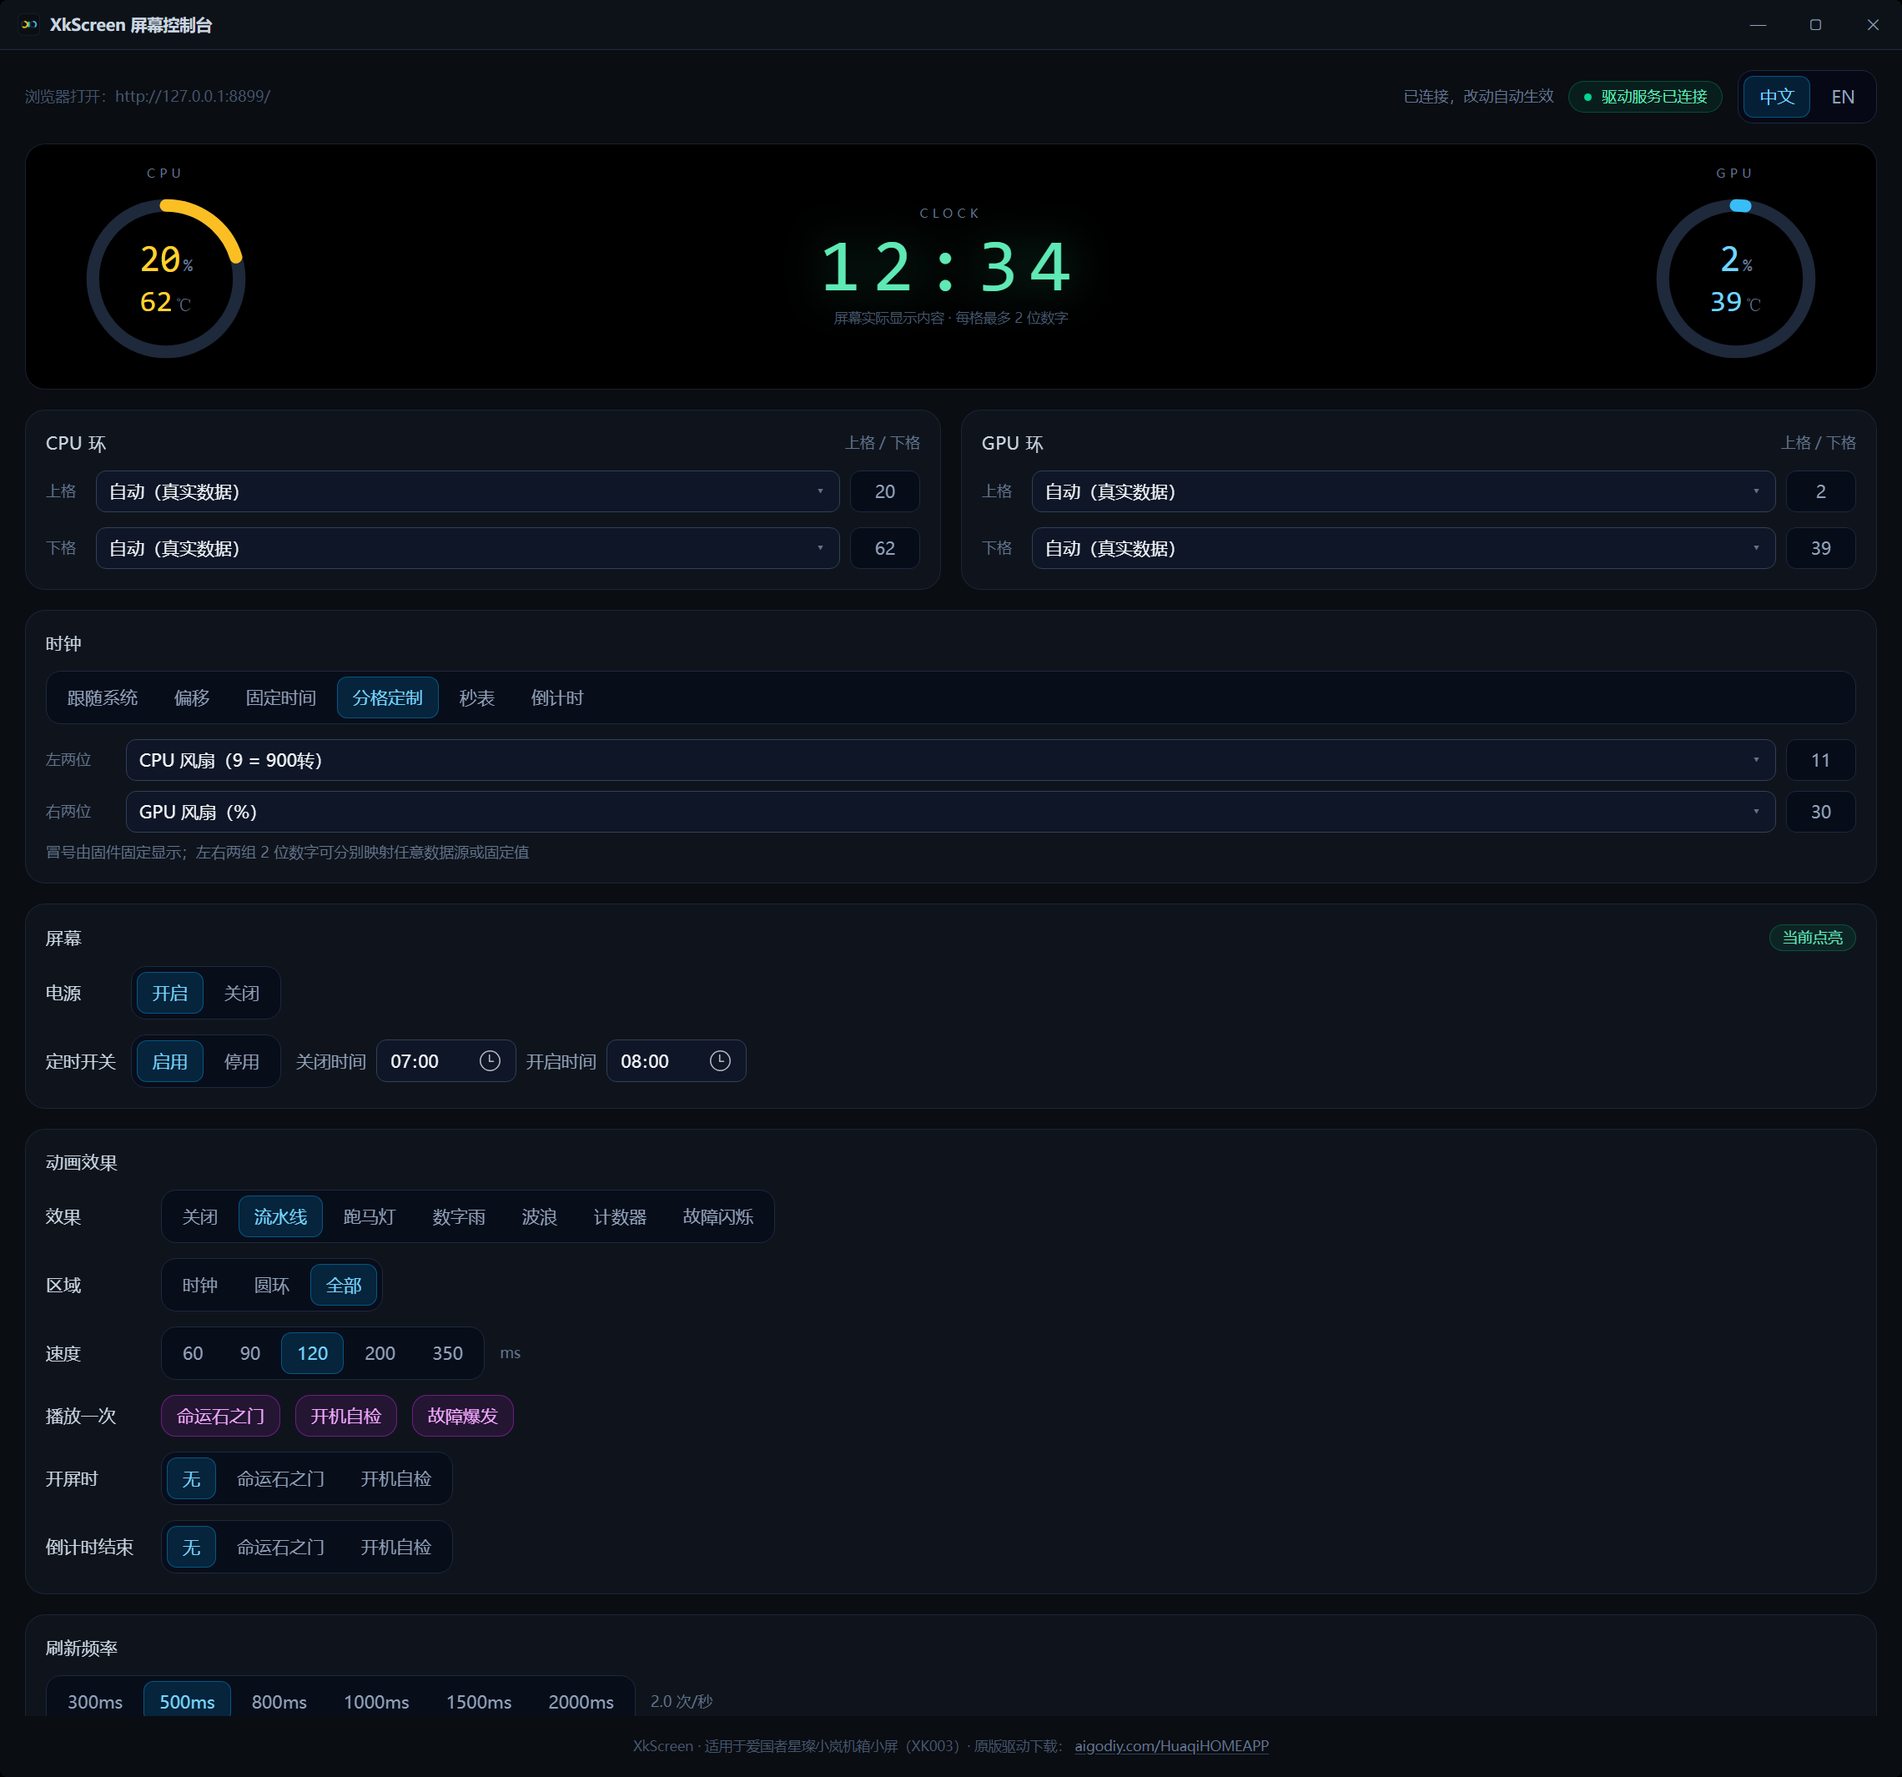
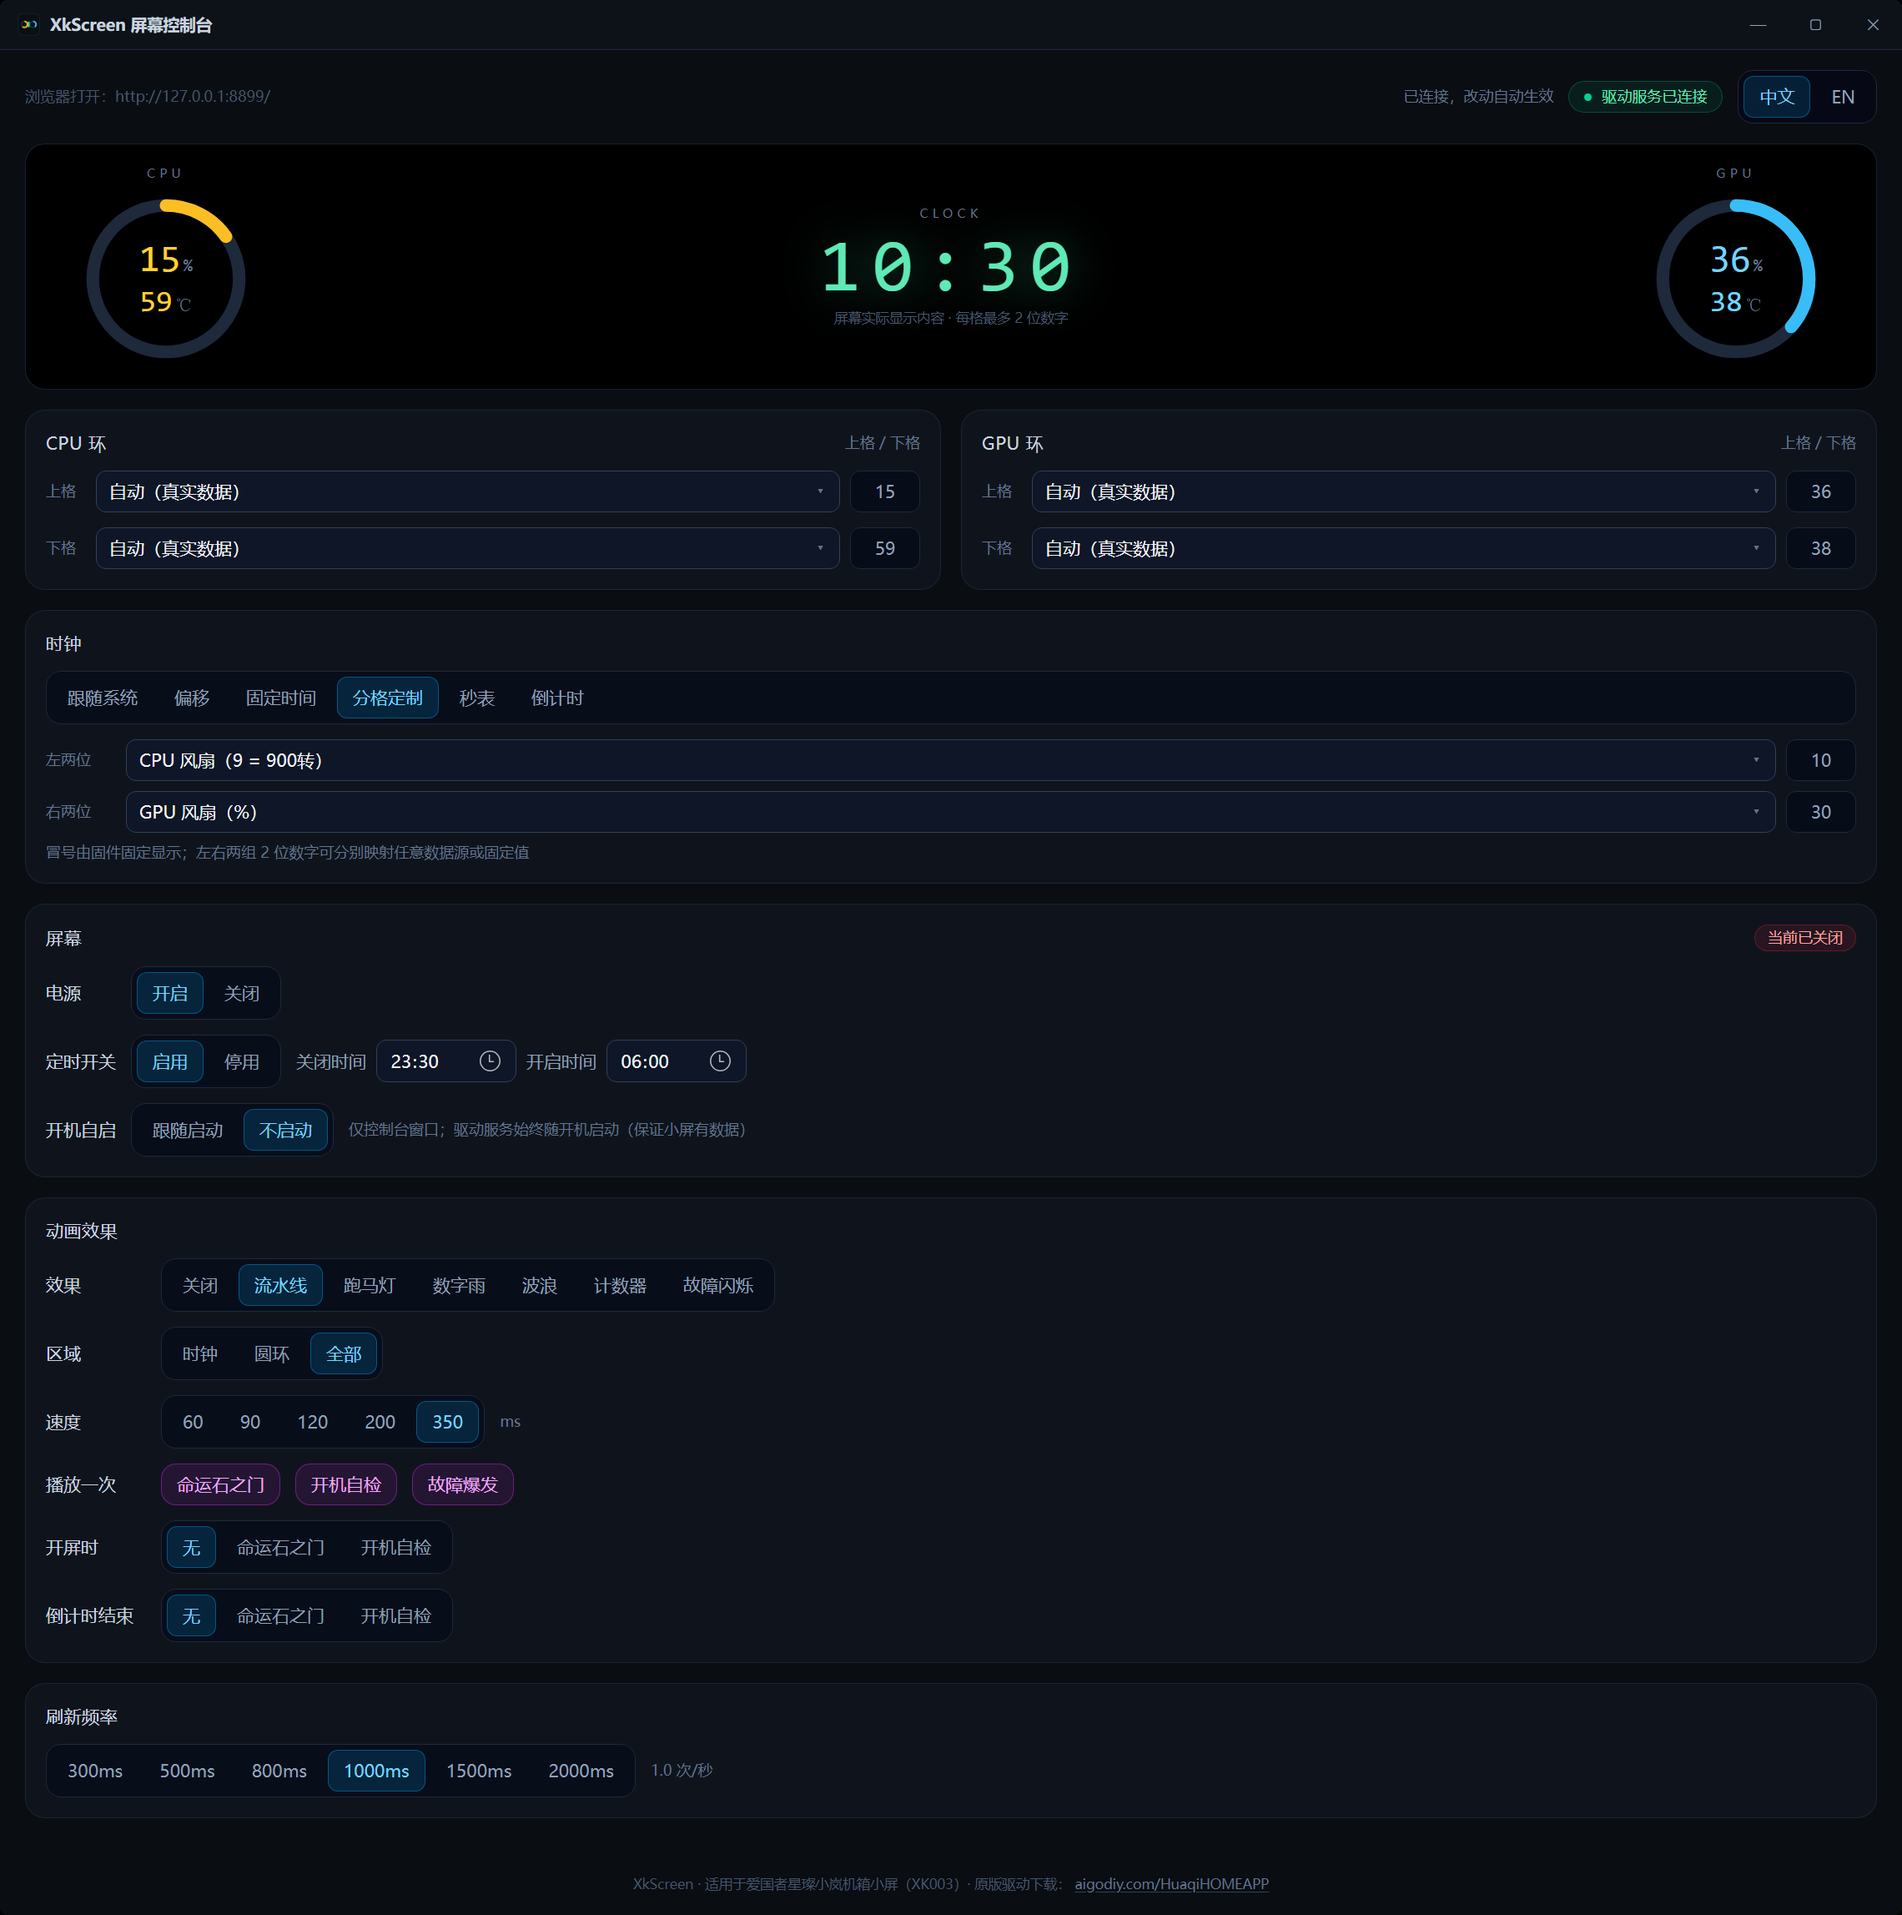
Add a console autostart switch and fix the installer's tasks page
The console gets a "开机自启" switch in the screen card. It writes the
per-user HKCU Run value over the WebView2 message bridge (a plain browser has
no bridge, so the row is read-only there with a hint). The installer writes the
same value, so the two can never disagree, and re-installing keeps whatever the
switch last set.

The installer's "选择附加任务" page lost the left edge of its check boxes: Inno
6.7 draws the standard tasks page ~2 DIP too far left, which at 150% scaling
clips the left border away completely. The two choices now live on a custom
page with real check box controls - verified by pixel-measuring the rendered
page from a non-elevated probe build (complete 22x20 boxes, both borders).
The autostart option also moved from a Startup-folder shortcut to the same
HKCU Run value, and both options mirror the previous state on re-install.

Screenshots refreshed for the new row.

diff --git a/product/frontend/src/app/page.tsx b/product/frontend/src/app/page.tsx
@@ -6,6 +6,21 @@ import { createPortal } from "react-dom";
 
 const API = "http://127.0.0.1:8899";
 
+// The desktop console injects this WebView2 bridge; a plain browser does not
+// have it, and the "start with Windows" switch is then read-only there.
+type WebViewBridge = {
+  postMessage: (msg: unknown) => void;
+  addEventListener: (type: "message", cb: (ev: MessageEvent) => void) => void;
+  removeEventListener: (type: "message", cb: (ev: MessageEvent) => void) => void;
+};
+
+function webviewBridge(): WebViewBridge | null {
+  if (typeof window === "undefined") return null;
+  const wv = (window as unknown as { chrome?: { webview?: WebViewBridge } }).chrome
+    ?.webview;
+  return wv && typeof wv.postMessage === "function" ? wv : null;
+}
+
 type Lang = "zh" | "en";
 
 type Config = {
@@ -160,6 +175,11 @@ const UI = {
     schedDisable: "停用",
     schedOffLabel: "关闭时间",
     schedOnLabel: "开启时间",
+    autostartLabel: "开机自启",
+    autostartOn: "跟随启动",
+    autostartOff: "不启动",
+    autostartHint: "仅控制台窗口；驱动服务始终随开机启动（保证小屏有数据）",
+    autostartHintWeb: "此开关只能在桌面控制台窗口中修改",
     modeSplit: "分格定制",
     splitLeft: "左两位",
     splitRight: "右两位",
@@ -242,6 +262,11 @@ const UI = {
     schedDisable: "Disable",
     schedOffLabel: "Off at",
     schedOnLabel: "On at",
+    autostartLabel: "Start with Windows",
+    autostartOn: "Launch",
+    autostartOff: "Don't launch",
+    autostartHint: "Console window only — the driver always starts at boot so the panel keeps its data.",
+    autostartHintWeb: "Change this in the desktop console window.",
     modeSplit: "Custom split",
     splitLeft: "Left 2 digits",
     splitRight: "Right 2 digits",
@@ -712,6 +737,8 @@ export default function Home() {
   const [connected, setConnected] = useState(false);
   const [sensorsActive, setSensorsActive] = useState(true);
   const [fxPlaying, setFxPlaying] = useState<string | null>(null);
+  // null = unknown / not available (browser without the WebView2 bridge)
+  const [autostart, setAutostart] = useState<boolean | null>(null);
   const [msg, setMsg] = useState<{ k: MsgKey; d?: string }>({ k: "connecting" });
 
   // clock input fields (kept locally, applied on change)
@@ -840,6 +867,28 @@ export default function Home() {
     const tmr = setInterval(poll, 500);
     return () => clearInterval(tmr);
   }, [poll]);
+
+  // "Start with Windows" is a per-user registry setting, so only the desktop
+  // console (which runs as the user) can read and change it — over its WebView2
+  // bridge. In a plain browser the switch is shown read-only.
+  useEffect(() => {
+    const wv = webviewBridge();
+    if (!wv) return;
+    const onMsg = (ev: MessageEvent) => {
+      const d = ev.data as { type?: string; value?: boolean } | null;
+      if (d && d.type === "autostart") setAutostart(!!d.value);
+    };
+    wv.addEventListener("message", onMsg);
+    wv.postMessage({ cmd: "autostart.get" });
+    return () => wv.removeEventListener("message", onMsg);
+  }, []);
+
+  const changeAutostart = useCallback((on: boolean) => {
+    const wv = webviewBridge();
+    if (!wv) return;
+    setAutostart(on); // optimistic; the console answers with what it stored
+    wv.postMessage({ cmd: "autostart.set", value: on });
+  }, []);
 
   const applyConfig = useCallback(async (cfg: Config) => {
     try {
@@ -1295,6 +1344,24 @@ export default function Home() {
                       onChange={(e) => setConfig((c) => ({ ...c, schOn: e.target.value || "07:00" }))}
                     />
                   </label>
+                )}
+              </div>
+              <div className="flex flex-wrap items-center gap-3">
+                <span className="w-14 text-sm text-slate-300">{t("autostartLabel")}</span>
+                {autostart === null ? (
+                  <span className="text-xs text-slate-500">{t("autostartHintWeb")}</span>
+                ) : (
+                  <>
+                    <Segmented<"on" | "off">
+                      value={autostart ? "on" : "off"}
+                      options={[
+                        { v: "on", label: t("autostartOn") },
+                        { v: "off", label: t("autostartOff") },
+                      ]}
+                      onChange={(v) => changeAutostart(v === "on")}
+                    />
+                    <span className="text-xs text-slate-500">{t("autostartHint")}</span>
+                  </>
                 )}
               </div>
             </div>

diff --git a/product/XkScreen.Gui/MainWindow.xaml.cs b/product/XkScreen.Gui/MainWindow.xaml.cs
@@ -373,6 +373,81 @@ namespace XkScreen.Gui
             await EnsureWebAsync();
         }
 
+        // ---- console autostart (HKCU Run value, the same one the installer writes) ----
+
+        private const string RunKeyPath = @"Software\Microsoft\Windows\CurrentVersion\Run";
+        private const string RunValueName = "XkScreen";
+
+        private static bool GetAutostart()
+        {
+            try
+            {
+                using (Microsoft.Win32.RegistryKey k =
+                    Microsoft.Win32.Registry.CurrentUser.OpenSubKey(RunKeyPath))
+                    return k != null && k.GetValue(RunValueName) != null;
+            }
+            catch { return false; }
+        }
+
+        private static bool SetAutostart(bool on)
+        {
+            try
+            {
+                using (Microsoft.Win32.RegistryKey k =
+                    Microsoft.Win32.Registry.CurrentUser.OpenSubKey(RunKeyPath, true))
+                {
+                    if (k == null) return GetAutostart();
+                    if (on)
+                    {
+                        string exe = Environment.ProcessPath;
+                        if (string.IsNullOrEmpty(exe)) return GetAutostart();
+                        k.SetValue(RunValueName, "\"" + exe + "\"");
+                    }
+                    else
+                    {
+                        k.DeleteValue(RunValueName, false);
+                    }
+                }
+            }
+            catch { }
+            return GetAutostart();
+        }
+
+        private void SendAutostart()
+        {
+            try
+            {
+                Web.CoreWebView2.PostWebMessageAsJson(
+                    "{\"type\":\"autostart\",\"value\":"
+                    + (GetAutostart() ? "true" : "false") + "}");
+            }
+            catch { }
+        }
+
+        private void OnWebMessageReceived(object sender, CoreWebView2WebMessageReceivedEventArgs e)
+        {
+            try
+            {
+                using (JsonDocument doc = JsonDocument.Parse(e.WebMessageAsJson))
+                {
+                    JsonElement root = doc.RootElement;
+                    string cmd = root.TryGetProperty("cmd", out JsonElement c) ? c.GetString() : null;
+                    if (cmd == "autostart.get")
+                    {
+                        SendAutostart();
+                    }
+                    else if (cmd == "autostart.set")
+                    {
+                        bool on = root.TryGetProperty("value", out JsonElement v)
+                                  && v.ValueKind == JsonValueKind.True;
+                        SetAutostart(on);
+                        SendAutostart();
+                    }
+                }
+            }
+            catch { }
+        }
+
         /// <summary>Create the WebView2 and navigate to the console. Called on
         /// startup and again whenever the window is shown after a tray hide.</summary>
         private async Task EnsureWebAsync()
@@ -393,6 +468,11 @@ namespace XkScreen.Gui
                 CoreWebView2Environment env = await CoreWebView2Environment.CreateAsync(
                     null, null, new CoreWebView2EnvironmentOptions(flags));
                 await Web.EnsureCoreWebView2Async(env);
+
+                // The page cannot touch the registry itself, so the console's
+                // "start with Windows" switch is served over the WebView2 message
+                // bridge (only present in the desktop console, not in a browser).
+                Web.CoreWebView2.WebMessageReceived += OnWebMessageReceived;
 
                 // Primary source: the copy hosted by the driver service (same one any
                 // browser sees at http://127.0.0.1:8899/). Fall back to the embedded

diff --git a/README.md b/README.md
@@ -75,7 +75,7 @@ Point XkScreen at the installed vendor folder with `--official-dir <path>`, the 
 7. **Animations**: pick a persistent effect (pipeline / marquee / digital rain / wave / counter / glitch) with target and speed; one-shots include the **Steins;Gate divergence-meter scramble**, boot scan and glitch burst — plus auto-triggers on screen-on or when a countdown hits 00:00.
 8. **Refresh rate** (the card at the very bottom): 300 ms – 2000 ms; slower is lighter (the whole driver idles at ~0.03 % CPU, so you normally never touch it).
 9. **Tray**: closing the window tucks it into the tray — hover for live CPU/GPU/RAM, right-click for screen on/off, open-in-browser, close-to-tray vs exit. Tray-resident it costs only a few MB.
-10. **Autostart & self-healing**: registered at install time (SYSTEM scheduled task); if the service ever dies, the hourly watchdog brings it back.
+10. **Autostart & self-healing**: the driver service starts at boot from the SYSTEM scheduled task the installer registers (so the panel always has data, nothing to launch by hand); whether the **console window** follows you at logon is a switch in the screen card (“Start with Windows”). If the service ever dies, the hourly watchdog brings it back.
 11. **Automation** (optional): the driver exposes a local JSON API — `GET /status`, `POST /config`, `POST /effect`, `GET /perf` (see “Local API” below).
 12. **Troubleshooting**: screen dark/stuck → the driver is not running (run `C:\XkScreen\service_host.cmd` as administrator); console says “sensors inactive” → it was started without administrator rights (restart it the same way); to go back to the original software, uninstall XkScreen — the uninstaller restores the original service to auto-start.
 

diff --git a/docs/RELEASE-NOTES.md b/docs/RELEASE-NOTES.md
@@ -1,5 +1,16 @@
 # Release Notes
 
+## XkScreen v0.4.0 — Console autostart switch & installer page fix
+
+### Added
+
+- **"开机自启" switch in the console** (screen card): lets the console window start with Windows. It writes the per-user `HKCU\...\Run` value that the installer also manages, so installer and switch can never disagree, and re-installing keeps whatever the switch last set. In a browser (no WebView2 bridge) the row is shown read-only with a hint to use the desktop console. The driver service is unaffected — it always starts at boot from its SYSTEM scheduled task, so the panel keeps its data.
+
+### Fixed
+
+- **Installer "选择附加任务" page: the check boxes lost their left edge.** Inno 6.7 draws the standard tasks page's check boxes about 2 DIP too far left, so at 150 % display scaling their left border was clipped away entirely (visually "the left side is covered"). The two choices now live on a custom page with real check box controls, which the Windows theme draws correctly at any scale — verified by pixel-measuring the rendered page (22×20 px boxes with both borders and rounded corners).
+- The installer's autostart option now writes the same `HKCU\...\Run` value the console's switch manages, instead of a Startup-folder shortcut, and both options remember their previous state when you re-install.
+
 ## XkScreen v0.3.1 — Driver icon
 
 ### Changed
